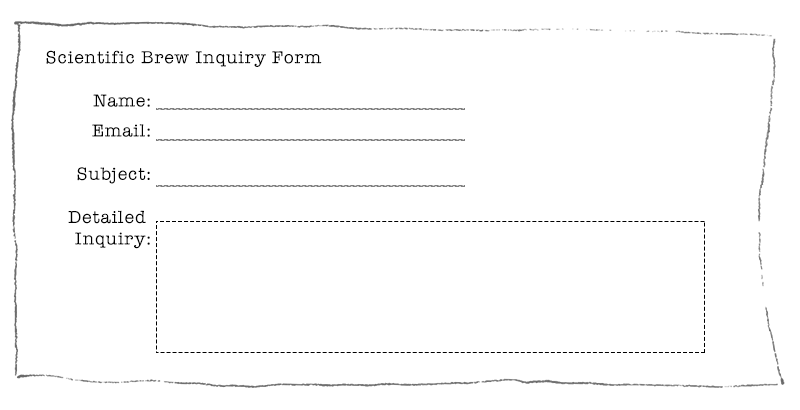
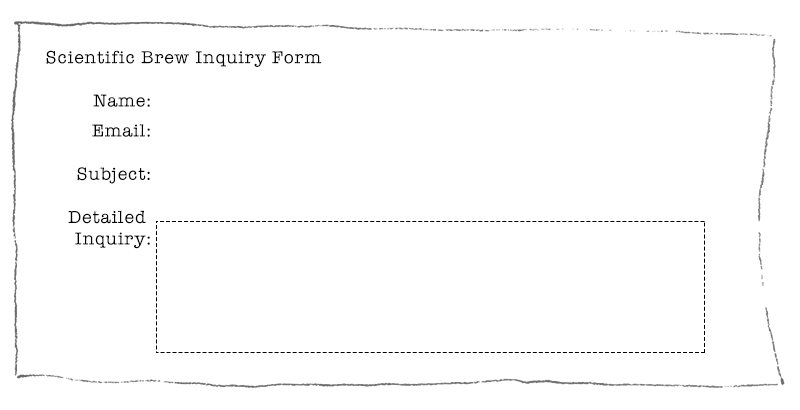
Inquiry form updated

Changed region(s): [[0.1875, 0.439, 0.5625, 0.4683], [0.1875, 0.322, 0.5625, 0.3512], [0.1875, 0.2634, 0.5625, 0.2927]]

diff --git a/app/assets/stylesheets/experiments.css.scss b/app/assets/stylesheets/experiments.css.scss
@@ -5,15 +5,7 @@
   list-style: none;
 }
 
-a {
-  display: block;
-  width: 100%;
-  height: 100%;
-  padding-top: 30px;
-  color: #4b4642;
-  text-decoration: none;
 
-}
 
 article {
 
@@ -88,6 +80,12 @@ div.letters p:first-letter {
   line-height: 16pt;
   font-family: "Apple Symbols";
   margin-right: 0px;
+}
+
+div.experiment {
+  padding-top: 50px;
+  border-top: 2px dotted #c2c2c2;
+  margin-top: 50px;
 }
 
 footer {
@@ -186,10 +184,10 @@ ol.instructions {
   text-align: justify;
   line-height: 20pt;
   font-family: "Apple Symbols";
-  font-size: 18px;
+  font-size: 16px;
   letter-spacing: 1px;
-  margin-left: 60px;
-  margin-right: 40px;
+  margin-left: 100px;
+  margin-right: 70px;
   margin-top: 30px;
   li {
     list-style: decimal;
@@ -227,6 +225,18 @@ p:first-letter {
   margin-right: 1px;
 }
 
+p.experiment {
+  margin-left: 40px;
+  margin-right: 40px;
+}
+
+p.experiment:first-letter {
+    font-size: 100%;
+    line-height: 16pt;
+    font-family: "Apple Symbols";
+    margin-right: none;
+}
+
 p.grid {
   padding-top: 0px;
   padding-bottom: 0px;
@@ -244,6 +254,18 @@ p.instructionsleft {
 }
 
 
+
+//brewlink table
+
+div.brewlink a:hover{
+  background: #867d74;
+}
+
+table.brewlink {
+  font-family: "American Typewriter";
+  font-size: 14px;
+
+}
 
 //brewtable
 
@@ -302,6 +324,37 @@ table.brewtable {
 }
 
 
+
+div.inquiryform {
+   margin-top:50px;
+   background-image: image-url("coffee-experiments-inquiryform.png");
+   background-size: 600px; 
+   background-repeat: no-repeat;
+   background-position: center;
+   height: 350px;
+   
+div {
+
+  input {
+    border: none;
+    border-bottom: 1px dashed black;
+    height: 19px;
+    font-family: "American Typewriter";
+    position: absolute;
+    margin-left: -182px;
+    padding-left: 8px;
+
+    }
+
+  }
+
+}
+
+
+
+
+
+
 //Naviation 'table'
 
 
@@ -311,6 +364,17 @@ table.nav {
 	margin: auto;
 	height: 55px;
 
+
+
+a {
+  display: block;
+  width: 100%;
+  height: 100%;
+  padding-top: 30px;
+  color: #4b4642;
+  text-decoration: none;
+
+}
   li:hover ul {
     display: block;
     position: absolute;
